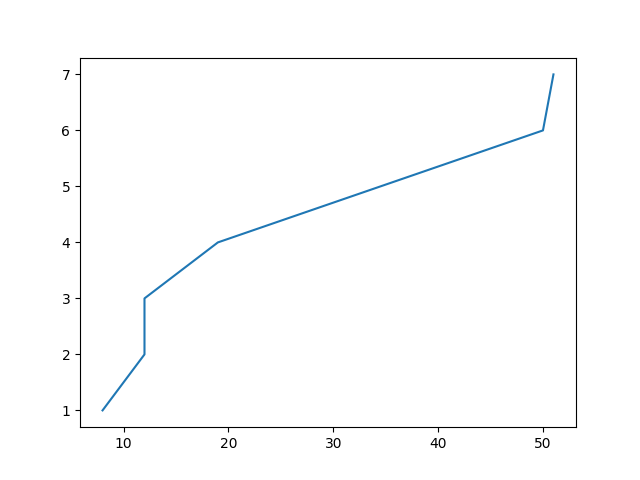
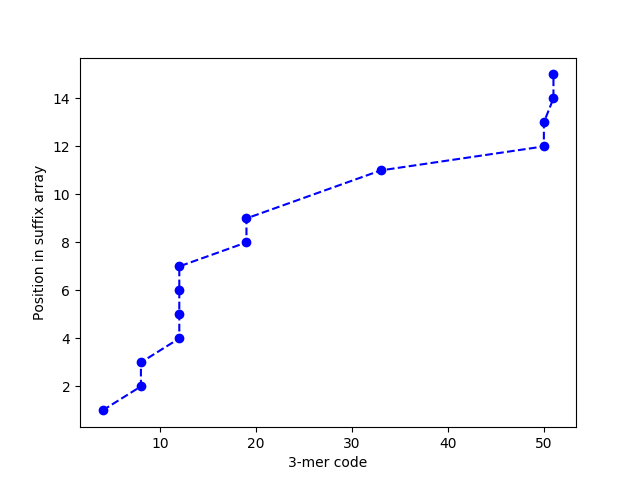
Added plot for example of methods

diff --git a/plot_methods_example.py b/plot_methods_example.py
@@ -1,0 +1,71 @@
+import matplotlib
+matplotlib.use('Agg')
+import matplotlib.pyplot as plt
+import random
+import operator
+
+chars = ['A', 'C', 'G', 'T']
+
+# Excerpt taken from yeast genome
+s = 'AGAAGATCAAAAAAGTGAAAATTCGGTACCTTCTAAGGTTAATATGGTGAATCGCACCGATATACTGACTACGATCAAGTCATTGTCATGGCTTGACTTGATGTTGCCATTTACTATAATTCTCTCCATAATCATTGCAGTAATAATTTCTGTCTATGTGCCTTCTTCCCGTCA'
+
+n = len(s)
+
+ss = [s[i:] for i in range(0, n)]
+ss = sorted(ss)
+sa = [0 for i in range(0, n)]
+for i in range(0, n):
+    sa[n - len(ss[i])] = i
+
+k = 10
+
+bins = 8
+
+max = 1 << (2*k)
+
+points = []
+
+for i in range(0, n - k + 1):
+    kmer = 0
+    for j in range(0, k):
+        kmer *= 4
+        c = s[i+j]
+        if c == 'A':
+            kmer += 0
+        if c == 'C':
+            kmer += 1
+        if c == 'G':
+            kmer += 2
+        if c == 'T':
+            kmer += 3
+    points.append((kmer, sa[i]))
+points.sort(key=lambda x: x[1])
+xs = [x[0] for x in points]
+ys = [x[1] for x in points]
+
+for i in range(1, bins):
+    plt.axvline(x=float(max) / float(bins) * i, color = 'cyan', linestyle = '--')
+
+saplingxs = []
+saplingys = []
+    
+for i in range(0, bins):
+    minx = float(max) / float(bins) * i
+    for j in range(0, len(xs)):
+        if xs[j] >= minx:
+            saplingxs.append(xs[j])
+            saplingys.append(ys[j])
+            break
+saplingxs.append(xs[len(xs)-1])
+saplingys.append(ys[len(ys)-1])
+
+plt.scatter(xs, ys, color = 'pink')
+plt.plot(saplingxs, saplingys, linewidth = 3.0, marker='o', color='purple')
+plt.xlabel(str(k) + '-mer code')
+plt.ylabel('Position in suffix array')
+
+axes = plt.gca()
+axes.set_xlim([0,max])
+plt.show()
+plt.savefig('methods_example.png')
+            

diff --git a/plot_kmer_example.py b/plot_kmer_example.py
@@ -1,7 +1,9 @@
+import matplotlib
+matplotlib.use('Agg')
 import matplotlib.pyplot as plt
 import operator
 
-s = 'CATATAGA'
+s = 'CATATAGACATATAGA'
 
 n = len(s)
 
@@ -29,11 +31,11 @@ for i in range(0, n - k + 1):
         if c == 'T':
             kmer += 3
     points.append((kmer, sa[i]))
-print(points)
 points.sort(key=lambda x: x[1])
-print(points)
 xs = [x[0] for x in points]
 ys = [x[1] for x in points]
-plt.plot(xs, ys)
+plt.plot(xs, ys, linestyle='--', marker='o', color='b')
+plt.xlabel(str(k) + '-mer code')
+plt.ylabel('Position in suffix array')
 plt.savefig('kmer_example.png')
             
